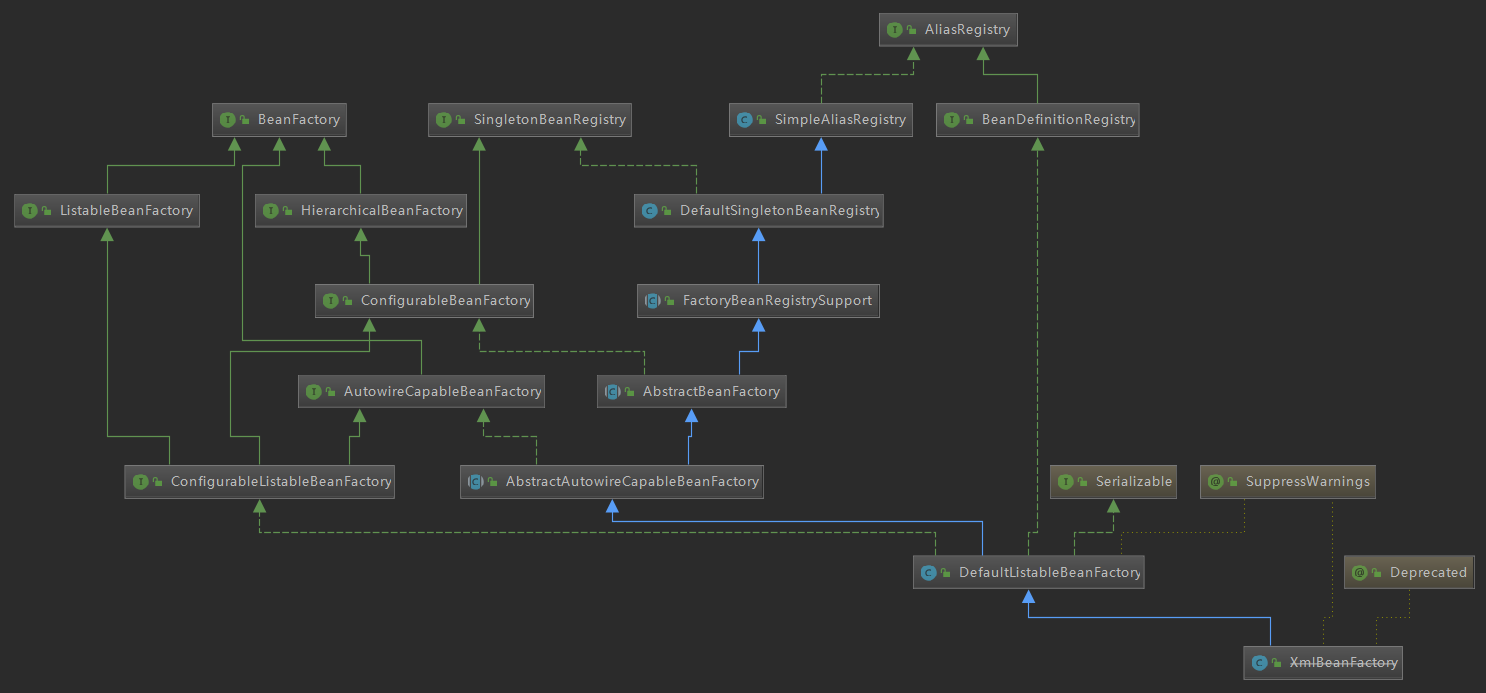
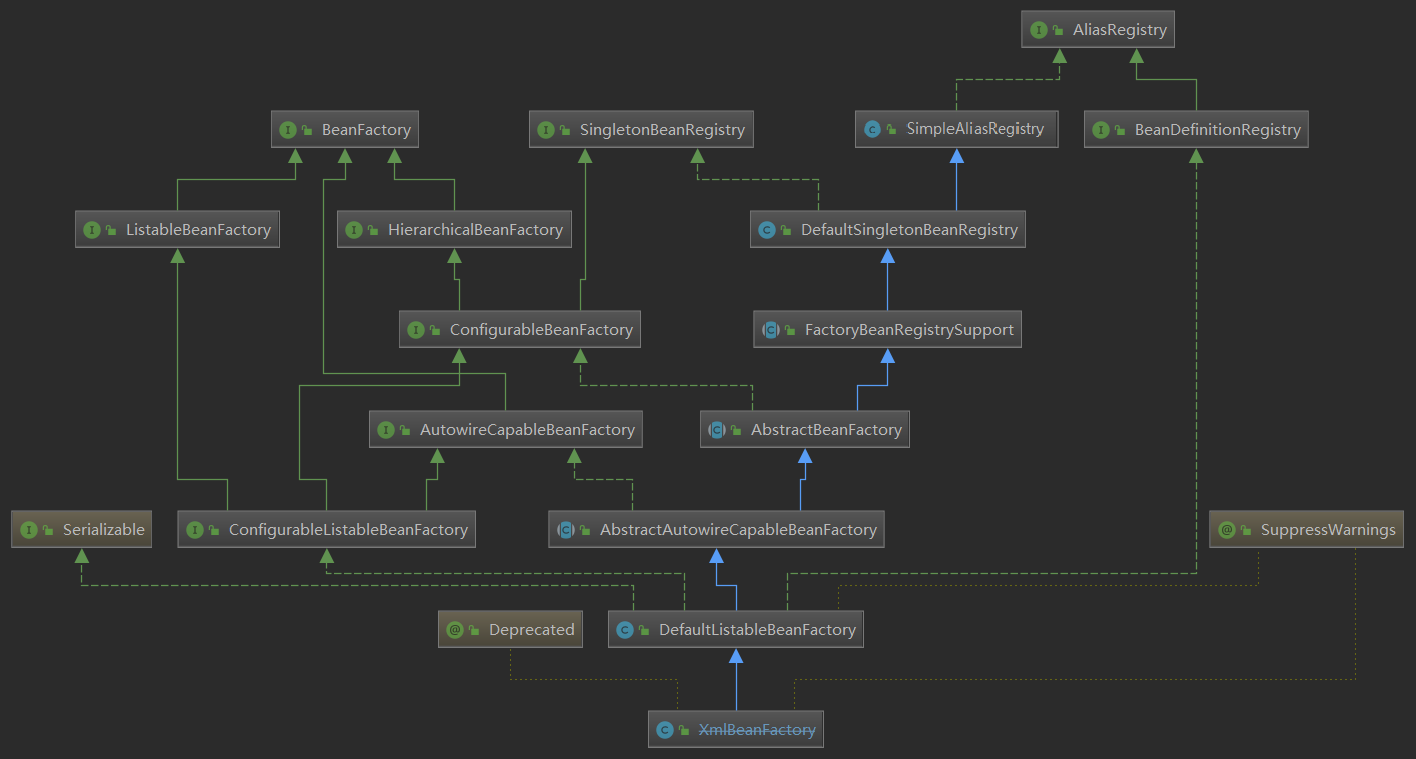
Site updated: 2019-04-07 23:36:33

diff --git a/2019/03/13/Spring-一-容器的基本实现/index.html b/2019/03/13/Spring-一-容器的基本实现/index.html
@@ -97,7 +97,8 @@
 <meta property="og:image" content="https://justxzm.github.io/images/Spring/2019031407.png">
 <meta property="og:image" content="https://justxzm.github.io/images/Spring/2019031408.png">
 <meta property="og:image" content="https://justxzm.github.io/images/Spring/2019031409.png">
-<meta property="og:updated_time" content="2019-03-14T12:45:49.163Z">
+<meta property="og:image" content="https://justxzm.github.io/images/Spring/2019040701.png">
+<meta property="og:updated_time" content="2019-04-07T15:33:27.512Z">
 <meta name="twitter:card" content="summary">
 <meta name="twitter:title" content="Spring:(一)容器的基本实现">
 <meta name="twitter:description" content="容器基本用法bean是Spring 中最核心的东西，Spring就像是个大水桶，而bean就像是容器中的水。 bean定义12345678910111213public class MyTestBean &amp;#123;	private String testStr = &quot;testStr&quot;;		public String getTestStr () &amp;#123;		return testStr ;	&amp;">
@@ -378,11 +379,11 @@
       
 
       
-        <h3 id="容器基本用法"><a href="#容器基本用法" class="headerlink" title="容器基本用法"></a>容器基本用法</h3><p><strong>bean是Spring 中最核心的东西，Spring就像是个大水桶，而bean就像是容器中的水。</strong></p>
-<h4 id="bean定义"><a href="#bean定义" class="headerlink" title="bean定义"></a>bean定义</h4><figure class="highlight java"><table><tr><td class="gutter"><pre><div class="line">1</div><div class="line">2</div><div class="line">3</div><div class="line">4</div><div class="line">5</div><div class="line">6</div><div class="line">7</div><div class="line">8</div><div class="line">9</div><div class="line">10</div><div class="line">11</div><div class="line">12</div><div class="line">13</div></pre></td><td class="code"><pre><div class="line"><span class="keyword">public</span> <span class="class"><span class="keyword">class</span> <span class="title">MyTestBean</span> </span>&#123;</div><div class="line"></div><div class="line">	<span class="keyword">private</span> String testStr = <span class="string">"testStr"</span>;</div><div class="line">	</div><div class="line">	<span class="function"><span class="keyword">public</span> String <span class="title">getTestStr</span> <span class="params">()</span> </span>&#123;</div><div class="line">		<span class="keyword">return</span> testStr ;</div><div class="line">	&#125;</div><div class="line">	</div><div class="line">	<span class="function"><span class="keyword">public</span> <span class="keyword">void</span> <span class="title">setTestStr</span><span class="params">(String testStr)</span> </span>&#123;</div><div class="line">		<span class="keyword">this</span>.testStr = testStr ;</div><div class="line">	&#125;</div><div class="line">	</div><div class="line">&#125;</div></pre></td></tr></table></figure>
-<h4 id="bean配置"><a href="#bean配置" class="headerlink" title="bean配置"></a>bean配置</h4><figure class="highlight xml"><table><tr><td class="gutter"><pre><div class="line">1</div><div class="line">2</div><div class="line">3</div><div class="line">4</div><div class="line">5</div><div class="line">6</div><div class="line">7</div><div class="line">8</div><div class="line">9</div></pre></td><td class="code"><pre><div class="line"><span class="tag">&lt;<span class="name">xml</span> <span class="attr">version</span>=<span class="string">"1.0"</span> <span class="attr">encoding</span>=<span class="string">"UTF-8"</span>?&gt;</span></div><div class="line"><span class="tag">&lt;<span class="name">beans</span> <span class="attr">xmlns</span>=<span class="string">"http://www.Springframework.org/schema/beans"</span></span></div><div class="line">	<span class="attr">xmlns:xsi</span>=<span class="string">"http://www.w3.org/2001/XMLSchema-instance"</span></div><div class="line">	<span class="attr">xsi:schemaLocation</span>=<span class="string">"http://www.Springframework.org/schema/beans http://www.</span></div><div class="line">Spring:ramework.org/schema/beεns/Spring-beans.xsd"&gt;</div><div class="line"></div><div class="line">	<span class="tag">&lt;<span class="name">bean</span> <span class="attr">id</span>=<span class="string">"myTestBean"</span> <span class="attr">class</span>=<span class="string">"bean.MyTestBean"</span>/&gt;</span></div><div class="line"></div><div class="line"><span class="tag">&lt;/<span class="name">beans</span>&gt;</span></div></pre></td></tr></table></figure>
-<h4 id="测试代码"><a href="#测试代码" class="headerlink" title="测试代码"></a>测试代码</h4><figure class="highlight java"><table><tr><td class="gutter"><pre><div class="line">1</div><div class="line">2</div><div class="line">3</div><div class="line">4</div><div class="line">5</div><div class="line">6</div><div class="line">7</div><div class="line">8</div><div class="line">9</div><div class="line">10</div><div class="line">11</div></pre></td><td class="code"><pre><div class="line"><span class="meta">@SuppressWarnings</span>(<span class="string">"deprecation"</span>)</div><div class="line"><span class="keyword">public</span> <span class="class"><span class="keyword">class</span> <span class="title">BeanFactoryTest</span> </span>&#123;</div><div class="line"></div><div class="line">	<span class="meta">@Test</span></div><div class="line">	<span class="function"><span class="keyword">public</span> <span class="keyword">void</span> <span class="title">testSimpleLoad</span><span class="params">()</span> </span>&#123;</div><div class="line">		BeanFactory bf = <span class="keyword">new</span> XmlBeanFactory(<span class="keyword">new</span> ClassPathResource(<span class="string">"beanFactoryTest.xml"</span>));</div><div class="line">		MyTestBean bean = (MyTestBean)bf.getBean(<span class="string">"myTestBean"</span>);</div><div class="line">		assertEquals(<span class="string">"testStr"</span>, bean.getTestStr());</div><div class="line">	&#125;</div><div class="line">	</div><div class="line">&#125;</div></pre></td></tr></table></figure>
-<h3 id="功能分析"><a href="#功能分析" class="headerlink" title="功能分析"></a>功能分析</h3><ol>
+        <h2 id="容器基本用法"><a href="#容器基本用法" class="headerlink" title="容器基本用法"></a>容器基本用法</h2><p><strong>bean是Spring 中最核心的东西，Spring就像是个大水桶，而bean就像是容器中的水。</strong></p>
+<h3 id="bean定义"><a href="#bean定义" class="headerlink" title="bean定义"></a>bean定义</h3><figure class="highlight java"><table><tr><td class="gutter"><pre><div class="line">1</div><div class="line">2</div><div class="line">3</div><div class="line">4</div><div class="line">5</div><div class="line">6</div><div class="line">7</div><div class="line">8</div><div class="line">9</div><div class="line">10</div><div class="line">11</div><div class="line">12</div><div class="line">13</div></pre></td><td class="code"><pre><div class="line"><span class="keyword">public</span> <span class="class"><span class="keyword">class</span> <span class="title">MyTestBean</span> </span>&#123;</div><div class="line"></div><div class="line">	<span class="keyword">private</span> String testStr = <span class="string">"testStr"</span>;</div><div class="line">	</div><div class="line">	<span class="function"><span class="keyword">public</span> String <span class="title">getTestStr</span> <span class="params">()</span> </span>&#123;</div><div class="line">		<span class="keyword">return</span> testStr ;</div><div class="line">	&#125;</div><div class="line">	</div><div class="line">	<span class="function"><span class="keyword">public</span> <span class="keyword">void</span> <span class="title">setTestStr</span><span class="params">(String testStr)</span> </span>&#123;</div><div class="line">		<span class="keyword">this</span>.testStr = testStr ;</div><div class="line">	&#125;</div><div class="line">	</div><div class="line">&#125;</div></pre></td></tr></table></figure>
+<h3 id="bean配置"><a href="#bean配置" class="headerlink" title="bean配置"></a>bean配置</h3><figure class="highlight xml"><table><tr><td class="gutter"><pre><div class="line">1</div><div class="line">2</div><div class="line">3</div><div class="line">4</div><div class="line">5</div><div class="line">6</div><div class="line">7</div><div class="line">8</div><div class="line">9</div></pre></td><td class="code"><pre><div class="line"><span class="tag">&lt;<span class="name">xml</span> <span class="attr">version</span>=<span class="string">"1.0"</span> <span class="attr">encoding</span>=<span class="string">"UTF-8"</span>?&gt;</span></div><div class="line"><span class="tag">&lt;<span class="name">beans</span> <span class="attr">xmlns</span>=<span class="string">"http://www.Springframework.org/schema/beans"</span></span></div><div class="line">	<span class="attr">xmlns:xsi</span>=<span class="string">"http://www.w3.org/2001/XMLSchema-instance"</span></div><div class="line">	<span class="attr">xsi:schemaLocation</span>=<span class="string">"http://www.Springframework.org/schema/beans http://www.</span></div><div class="line">Spring:ramework.org/schema/beεns/Spring-beans.xsd"&gt;</div><div class="line"></div><div class="line">	<span class="tag">&lt;<span class="name">bean</span> <span class="attr">id</span>=<span class="string">"myTestBean"</span> <span class="attr">class</span>=<span class="string">"bean.MyTestBean"</span>/&gt;</span></div><div class="line"></div><div class="line"><span class="tag">&lt;/<span class="name">beans</span>&gt;</span></div></pre></td></tr></table></figure>
+<h3 id="测试代码"><a href="#测试代码" class="headerlink" title="测试代码"></a>测试代码</h3><figure class="highlight java"><table><tr><td class="gutter"><pre><div class="line">1</div><div class="line">2</div><div class="line">3</div><div class="line">4</div><div class="line">5</div><div class="line">6</div><div class="line">7</div><div class="line">8</div><div class="line">9</div><div class="line">10</div><div class="line">11</div></pre></td><td class="code"><pre><div class="line"><span class="meta">@SuppressWarnings</span>(<span class="string">"deprecation"</span>)</div><div class="line"><span class="keyword">public</span> <span class="class"><span class="keyword">class</span> <span class="title">BeanFactoryTest</span> </span>&#123;</div><div class="line"></div><div class="line">	<span class="meta">@Test</span></div><div class="line">	<span class="function"><span class="keyword">public</span> <span class="keyword">void</span> <span class="title">testSimpleLoad</span><span class="params">()</span> </span>&#123;</div><div class="line">		BeanFactory bf = <span class="keyword">new</span> XmlBeanFactory(<span class="keyword">new</span> ClassPathResource(<span class="string">"beanFactoryTest.xml"</span>));</div><div class="line">		MyTestBean bean = (MyTestBean)bf.getBean(<span class="string">"myTestBean"</span>);</div><div class="line">		assertEquals(<span class="string">"testStr"</span>, bean.getTestStr());</div><div class="line">	&#125;</div><div class="line">	</div><div class="line">&#125;</div></pre></td></tr></table></figure>
+<h2 id="功能分析"><a href="#功能分析" class="headerlink" title="功能分析"></a>功能分析</h2><ol>
 <li>读取配置文件beanFactoryTest.xml。</li>
 <li>根据beanFactoryTest.xml中的配置找到对应的类的配置，并实例化。</li>
 <li>调用实例化后的实例。</li>
@@ -393,20 +394,26 @@
 <li>ReflectionUtil：用于根据配置文件中的配置进行反射实例化。</li>
 <li>App：用于完成整个逻辑的串联。</li>
 </ul>
-<h3 id="Spring结构组成"><a href="#Spring结构组成" class="headerlink" title="Spring结构组成"></a>Spring结构组成</h3><h4 id="beans包的层级结构"><a href="#beans包的层级结构" class="headerlink" title="beans包的层级结构"></a>beans包的层级结构</h4><p><img src="/images/Spring/2019031408.png" alt=""></p>
+<h2 id="Spring结构组成"><a href="#Spring结构组成" class="headerlink" title="Spring结构组成"></a>Spring结构组成</h2><h3 id="beans包的层级结构"><a href="#beans包的层级结构" class="headerlink" title="beans包的层级结构"></a>beans包的层级结构</h3><p><img src="/images/Spring/2019031408.png" alt=""></p>
 <ul>
 <li>src/main/java用于展现Spring的主要逻辑。</li>
 <li>src/main/resources用于存放系统的配置文件。</li>
 <li>src/test/java用于对主要逻辑进行单元测试。</li>
 <li>src/test/resources用于存放测试用的配置文件。</li>
 </ul>
-<h4 id="核心类介绍"><a href="#核心类介绍" class="headerlink" title="核心类介绍"></a>核心类介绍</h4><h5 id="DefaultListableBeanFactory"><a href="#DefaultListableBeanFactory" class="headerlink" title="DefaultListableBeanFactory"></a>DefaultListableBeanFactory</h5><p><img src="/images/Spring/2019031409.png" alt=""></p>
-<p>DefaultListableBeanFactory是整个bean加载的核心部分，是Spring注册及加载bean的默认实现，而XmlBeanFactory继承自DefaultListableBeanFactory，在XmlBeanFactory中使用了自定义的XML读取器XmlBeanDefinitionReader，实现了个性化的BeanDefinitionReader读取。</p>
-<p>图中各个类的作用：</p>
-<ul>
-<li>AliasRegistry：定义对alias的简单增删改等操作。</li>
-<li>(待续)</li>
-</ul>
+<h3 id="核心类介绍"><a href="#核心类介绍" class="headerlink" title="核心类介绍"></a>核心类介绍</h3><h4 id="DefaultListableBeanFactory"><a href="#DefaultListableBeanFactory" class="headerlink" title="DefaultListableBeanFactory"></a>DefaultListableBeanFactory</h4><p>DefaultListableBeanFactory是整个bean加载的核心部分，是Spring注册及加载bean的默认实现.</p>
+<h4 id="XmlBeanFactory"><a href="#XmlBeanFactory" class="headerlink" title="XmlBeanFactory"></a>XmlBeanFactory</h4><p>XmlBeanFactory继承自DefaultListableBeanFactory，主要用于从XML文档中读取BeanDefinition，对于注册及获取bean都是使用从父类DefaultListableBeanFactory继承的方法去实现。与父类不同的是，在XmlBeanFactory中使用了自定义的XML读取器XmlBeanDefinitionReader，通过XmlBeanDefinitionReader类型的reader属性对资源文件进行读取和注册，实现个性化的BeanDefinitionReader读取。</p>
+<figure class="highlight java"><table><tr><td class="gutter"><pre><div class="line">1</div><div class="line">2</div><div class="line">3</div><div class="line">4</div><div class="line">5</div><div class="line">6</div><div class="line">7</div><div class="line">8</div><div class="line">9</div><div class="line">10</div><div class="line">11</div><div class="line">12</div><div class="line">13</div><div class="line">14</div><div class="line">15</div><div class="line">16</div><div class="line">17</div><div class="line">18</div><div class="line">19</div><div class="line">20</div><div class="line">21</div><div class="line">22</div><div class="line">23</div><div class="line">24</div><div class="line">25</div><div class="line">26</div><div class="line">27</div><div class="line">28</div><div class="line">29</div><div class="line">30</div></pre></td><td class="code"><pre><div class="line"><span class="meta">@Deprecated</span></div><div class="line"><span class="meta">@SuppressWarnings</span>(&#123;<span class="string">"serial"</span>, <span class="string">"all"</span>&#125;)</div><div class="line"><span class="keyword">public</span> <span class="class"><span class="keyword">class</span> <span class="title">XmlBeanFactory</span> <span class="keyword">extends</span> <span class="title">DefaultListableBeanFactory</span> </span>&#123;</div><div class="line"></div><div class="line">	<span class="keyword">private</span> <span class="keyword">final</span> XmlBeanDefinitionReader reader = <span class="keyword">new</span> XmlBeanDefinitionReader(<span class="keyword">this</span>);</div><div class="line"></div><div class="line"></div><div class="line">	<span class="comment">/**</span></div><div class="line">	 * Create a new XmlBeanFactory with the given resource,</div><div class="line">	 * which must be parsable using dom.</div><div class="line">	 * <span class="doctag">@param</span> resource the XML resource to load bean definitions from</div><div class="line">	 * <span class="doctag">@throws</span> BeansException in case of loading or parsing errors</div><div class="line">	 */</div><div class="line">	<span class="function"><span class="keyword">public</span> <span class="title">XmlBeanFactory</span><span class="params">(Resource resource)</span> <span class="keyword">throws</span> BeansException </span>&#123;</div><div class="line">		<span class="keyword">this</span>(resource, <span class="keyword">null</span>);</div><div class="line">	&#125;</div><div class="line"></div><div class="line">	<span class="comment">/**</span></div><div class="line">	 * Create a new XmlBeanFactory with the given input stream,</div><div class="line">	 * which must be parsable using DOM.</div><div class="line">	 * <span class="doctag">@param</span> resource the XML resource to load bean definitions from</div><div class="line">	 * <span class="doctag">@param</span> parentBeanFactory parent bean factory</div><div class="line">	 * <span class="doctag">@throws</span> BeansException in case of loading or parsing errors</div><div class="line">	 */</div><div class="line">	<span class="function"><span class="keyword">public</span> <span class="title">XmlBeanFactory</span><span class="params">(Resource resource, BeanFactory parentBeanFactory)</span> <span class="keyword">throws</span> BeansException </span>&#123;</div><div class="line">		<span class="keyword">super</span>(parentBeanFactory);</div><div class="line">		<span class="keyword">this</span>.reader.loadBeanDefinitions(resource);</div><div class="line">	&#125;</div><div class="line"></div><div class="line">&#125;</div></pre></td></tr></table></figure>
+<p><img src="/images/Spring/2019031409.png" alt=""></p>
+<h4 id="XmlBeanDefinitionReader"><a href="#XmlBeanDefinitionReader" class="headerlink" title="XmlBeanDefinitionReader"></a>XmlBeanDefinitionReader</h4><p><img src="/images/Spring/2019040701.png" alt=""></p>
+<figure class="highlight java"><table><tr><td class="gutter"><pre><div class="line">1</div><div class="line">2</div><div class="line">3</div><div class="line">4</div><div class="line">5</div><div class="line">6</div><div class="line">7</div></pre></td><td class="code"><pre><div class="line"><span class="keyword">public</span> <span class="class"><span class="keyword">class</span> <span class="title">XmlBeanDefinitionReader</span> <span class="keyword">extends</span> <span class="title">AbstractBeanDefinitionReader</span> </span>&#123;</div><div class="line">    </div><div class="line">	<span class="keyword">private</span> DocumentLoader documentLoader = <span class="keyword">new</span> DefaultDocumentLoader();</div><div class="line">    </div><div class="line">	<span class="keyword">private</span> Class&lt;? extends BeanDefinitionDocumentReader&gt; documentReaderClass =</div><div class="line">			DefaultBeanDefinitionDocumentReader.class;</div><div class="line">&#125;</div></pre></td></tr></table></figure>
+<figure class="highlight java"><table><tr><td class="gutter"><pre><div class="line">1</div><div class="line">2</div><div class="line">3</div><div class="line">4</div></pre></td><td class="code"><pre><div class="line"><span class="keyword">public</span> <span class="keyword">abstract</span> <span class="class"><span class="keyword">class</span> <span class="title">AbstractBeanDefinitionReader</span> <span class="keyword">implements</span> <span class="title">BeanDefinitionReader</span>, <span class="title">EnvironmentCapable</span> </span>&#123;</div><div class="line">	<span class="meta">@Nullable</span></div><div class="line">	<span class="keyword">private</span> ResourceLoader resourceLoader;</div><div class="line">&#125;</div></pre></td></tr></table></figure>
+<figure class="highlight java"><table><tr><td class="gutter"><pre><div class="line">1</div><div class="line">2</div><div class="line">3</div><div class="line">4</div></pre></td><td class="code"><pre><div class="line"><span class="keyword">public</span> <span class="class"><span class="keyword">class</span> <span class="title">DefaultBeanDefinitionDocumentReader</span> <span class="keyword">implements</span> <span class="title">BeanDefinitionDocumentReader</span> </span>&#123;</div><div class="line">	<span class="meta">@Nullable</span></div><div class="line">	<span class="keyword">private</span> BeanDefinitionParserDelegate delegate;</div><div class="line">&#125;</div></pre></td></tr></table></figure>
+<ol>
+<li>通过继承向AbstractBeanDefinitionReader中的方法，来使用ResourLoader将资源文件路径转换为对应的Resource文件。</li>
+<li>通过DocumentLoader对Resource 文件进行转换，将Resource 文件转换为Document文件。</li>
+<li>通过实现接口BeanDefinitionDocumentReader的DefaultBeanDefinitionDocumentReader类对Document进行解析，并使用BeanDefinitionParserDelegate对Element进行解析。</li>
+</ol>
 
       
     </div>
@@ -604,7 +611,7 @@
             
 
             
-              <div class="post-toc-content"><ol class="nav"><li class="nav-item nav-level-3"><a class="nav-link" href="#容器基本用法"><span class="nav-number">1.</span> <span class="nav-text">容器基本用法</span></a><ol class="nav-child"><li class="nav-item nav-level-4"><a class="nav-link" href="#bean定义"><span class="nav-number">1.1.</span> <span class="nav-text">bean定义</span></a></li><li class="nav-item nav-level-4"><a class="nav-link" href="#bean配置"><span class="nav-number">1.2.</span> <span class="nav-text">bean配置</span></a></li><li class="nav-item nav-level-4"><a class="nav-link" href="#测试代码"><span class="nav-number">1.3.</span> <span class="nav-text">测试代码</span></a></li></ol></li><li class="nav-item nav-level-3"><a class="nav-link" href="#功能分析"><span class="nav-number">2.</span> <span class="nav-text">功能分析</span></a></li><li class="nav-item nav-level-3"><a class="nav-link" href="#Spring结构组成"><span class="nav-number">3.</span> <span class="nav-text">Spring结构组成</span></a><ol class="nav-child"><li class="nav-item nav-level-4"><a class="nav-link" href="#beans包的层级结构"><span class="nav-number">3.1.</span> <span class="nav-text">beans包的层级结构</span></a></li><li class="nav-item nav-level-4"><a class="nav-link" href="#核心类介绍"><span class="nav-number">3.2.</span> <span class="nav-text">核心类介绍</span></a><ol class="nav-child"><li class="nav-item nav-level-5"><a class="nav-link" href="#DefaultListableBeanFactory"><span class="nav-number">3.2.1.</span> <span class="nav-text">DefaultListableBeanFactory</span></a></li></ol></li></ol></li></ol></div>
+              <div class="post-toc-content"><ol class="nav"><li class="nav-item nav-level-2"><a class="nav-link" href="#容器基本用法"><span class="nav-number">1.</span> <span class="nav-text">容器基本用法</span></a><ol class="nav-child"><li class="nav-item nav-level-3"><a class="nav-link" href="#bean定义"><span class="nav-number">1.1.</span> <span class="nav-text">bean定义</span></a></li><li class="nav-item nav-level-3"><a class="nav-link" href="#bean配置"><span class="nav-number">1.2.</span> <span class="nav-text">bean配置</span></a></li><li class="nav-item nav-level-3"><a class="nav-link" href="#测试代码"><span class="nav-number">1.3.</span> <span class="nav-text">测试代码</span></a></li></ol></li><li class="nav-item nav-level-2"><a class="nav-link" href="#功能分析"><span class="nav-number">2.</span> <span class="nav-text">功能分析</span></a></li><li class="nav-item nav-level-2"><a class="nav-link" href="#Spring结构组成"><span class="nav-number">3.</span> <span class="nav-text">Spring结构组成</span></a><ol class="nav-child"><li class="nav-item nav-level-3"><a class="nav-link" href="#beans包的层级结构"><span class="nav-number">3.1.</span> <span class="nav-text">beans包的层级结构</span></a></li><li class="nav-item nav-level-3"><a class="nav-link" href="#核心类介绍"><span class="nav-number">3.2.</span> <span class="nav-text">核心类介绍</span></a><ol class="nav-child"><li class="nav-item nav-level-4"><a class="nav-link" href="#DefaultListableBeanFactory"><span class="nav-number">3.2.1.</span> <span class="nav-text">DefaultListableBeanFactory</span></a></li><li class="nav-item nav-level-4"><a class="nav-link" href="#XmlBeanFactory"><span class="nav-number">3.2.2.</span> <span class="nav-text">XmlBeanFactory</span></a></li><li class="nav-item nav-level-4"><a class="nav-link" href="#XmlBeanDefinitionReader"><span class="nav-number">3.2.3.</span> <span class="nav-text">XmlBeanDefinitionReader</span></a></li></ol></li></ol></li></ol></div>
             
 
           </div>

diff --git a/css/main.css b/css/main.css
@@ -1699,7 +1699,7 @@ pre .javascript .function {
   width: 4px;
   height: 4px;
   border-radius: 50%;
-  background: #cb9391;
+  background: #fc85a8;
 }
 .links-of-blogroll {
   font-size: 13px;
